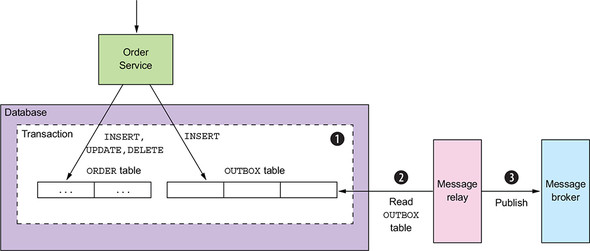
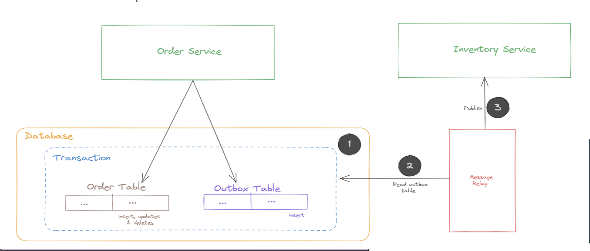
updates to transactional outbox pattern

diff --git a/content/blog/transactional-outbox-pattern/index.md b/content/blog/transactional-outbox-pattern/index.md
@@ -40,10 +40,6 @@ editPost:
   appendFilePath: true # to append file path to Edit link
 ---
 
-
-
-
-
 Services/software components often needs to publish messages or events as part of a transaction that updates the database. For instance, Integration events such as Order created, Customer created etc need to be published to external domains which maybe interested in these events. Both the database update and the sending of the message must happen within a transaction. A service might update the database and then crash, for example, before sending the message. If the service doesn’t perform these two operations atomically, a failure could leave the system in an inconsistent state.
 
 The traditional solution is to use a [distributed transaction( 2PC)](http://geekswithblogs.net/Pradeepl/archive/2006/02/09/68808.aspx) that spans across the database and the message broker. However Distributed transactions create their own complexities and have performance issues. Additionally many modern messaging systems such as apache kafka do not support distributed transactions. As a result, an application must use a different mechanism to reliably publish messages.
@@ -119,11 +115,13 @@ These are other microservices or external systems that need to receive the messa
 
 Messages from the Outbox table are sent to a message queue or event bus, which then delivers them to the intended microservices. This adds another layer of reliability and decoupling, as the message queue/event bus can manage message delivery retries, ordering, and distribution.
 
-## Practical example of Outbox pattern
+# Practical example of Outbox pattern
 
 Now that we know the actors in the pattern, its sequence flow .. let us look at an example implementation of this pattern.
 
 Imagine an e-commerce system where an order service handles customer orders. When an order is placed, the system needs to update the order database and notify the inventory service to update the stock. This is a classic case where we can apply the Transactional Outbox pattern.
+
+![Transactional Outbox Pattern](images/Transactional-Outbox-Pattern.png)
 
 The process flow is as follows
 
@@ -163,7 +161,7 @@ sequenceDiagram
 
 # Conclusion
 
-The Transactional Outbox pattern is a key pattern in distrinuted systems. It is used to ensure reliable messaging in distributed systems in a simple and efficient manner.
+The Transactional Outbox pattern is a key pattern in distributed systems. It is used to ensure reliable messaging in distributed systems in a simple and efficient manner. It is a key strategy for managing data consistency, reliability, and communication in a microservices architecture. It addresses several distributed systems challenges and is a vital tool in the toolbox of developers and architects working with such systems.
 
 ## References
 

diff --git a/content/blog/serialize-exceptions-as-json-using-custom-middleware-in-net-core/index.md b/content/blog/serialize-exceptions-as-json-using-custom-middleware-in-net-core/index.md
@@ -11,7 +11,7 @@ Creating API's has a certain rigor to it right from the design phase which is di
 
 In an API since there is no UI and the client and the API provider work on a contract, exceptions are communicated through the API response in the appropriate media format such as JSON or XML. There are multiple ways of returning exceptions back to the client. I generally prefer to implement a custom exception handling middleware. Implementing a middleware component is simpler and it can be added to the OWIN request/response processing pipeline. It makes the context of the middleware much more explicit by limiting it to handling and communicating exceptions to the client. It is in some ways a cross cutting concern which should be abstracted away from the domain code.
 
-If you are new to the pipeline architecture of .NET core, I would suggest you read [this post]{{ < ref "/blog/owin-katana-kestrel/" > }}) before moving ahead.
+If you are new to the pipeline architecture of .NET core, I would suggest you read [this post]({{ < ref "/blog/owin-katana-kestrel/" > }}) before moving ahead.
 
 A middleware component is a request delegate that processes the request/response and then invokes the next component in the pipeline. The next request delegate is resolved by dependency injection.
 

diff --git a/content/blog/api/api-gateway/index.md b/content/blog/api/api-gateway/index.md
@@ -98,7 +98,7 @@ An API Gateway can act as a load balancer to handle client requests efficiently.
 
 ### Quality of Service
 
-An API gateway can define metrics of requirements for ensuring service availability, performance, integrity, and reliability. These metric definitions are called as QoS policies. QoS policies can be attached to specific services managed by the API gateway. QoS policies make use of patterns such as [Circuit Breaker](https://pradeepl.com/patterns/circuit-breaker-pattern/), [Bulkhead Isolation](https://pradeepl.com/patterns/bulkhead-isolation/) etc. to provide necessary reliability and fault tolerance.
+An API gateway can define metrics of requirements for ensuring service availability, performance, integrity, and reliability. These metric definitions are called as QoS policies. QoS policies can be attached to specific services managed by the API gateway. QoS policies make use of patterns such as [Circuit Breaker]({{ <ref "patterns/circuit-breaker-pattern/" > }}), [Bulkhead Isolation]({{ <ref "/patterns/bulkhead-isolation/"> }}) etc. to provide necessary reliability and fault tolerance.
 
 ## Backend for Frontend (BFF)
 
